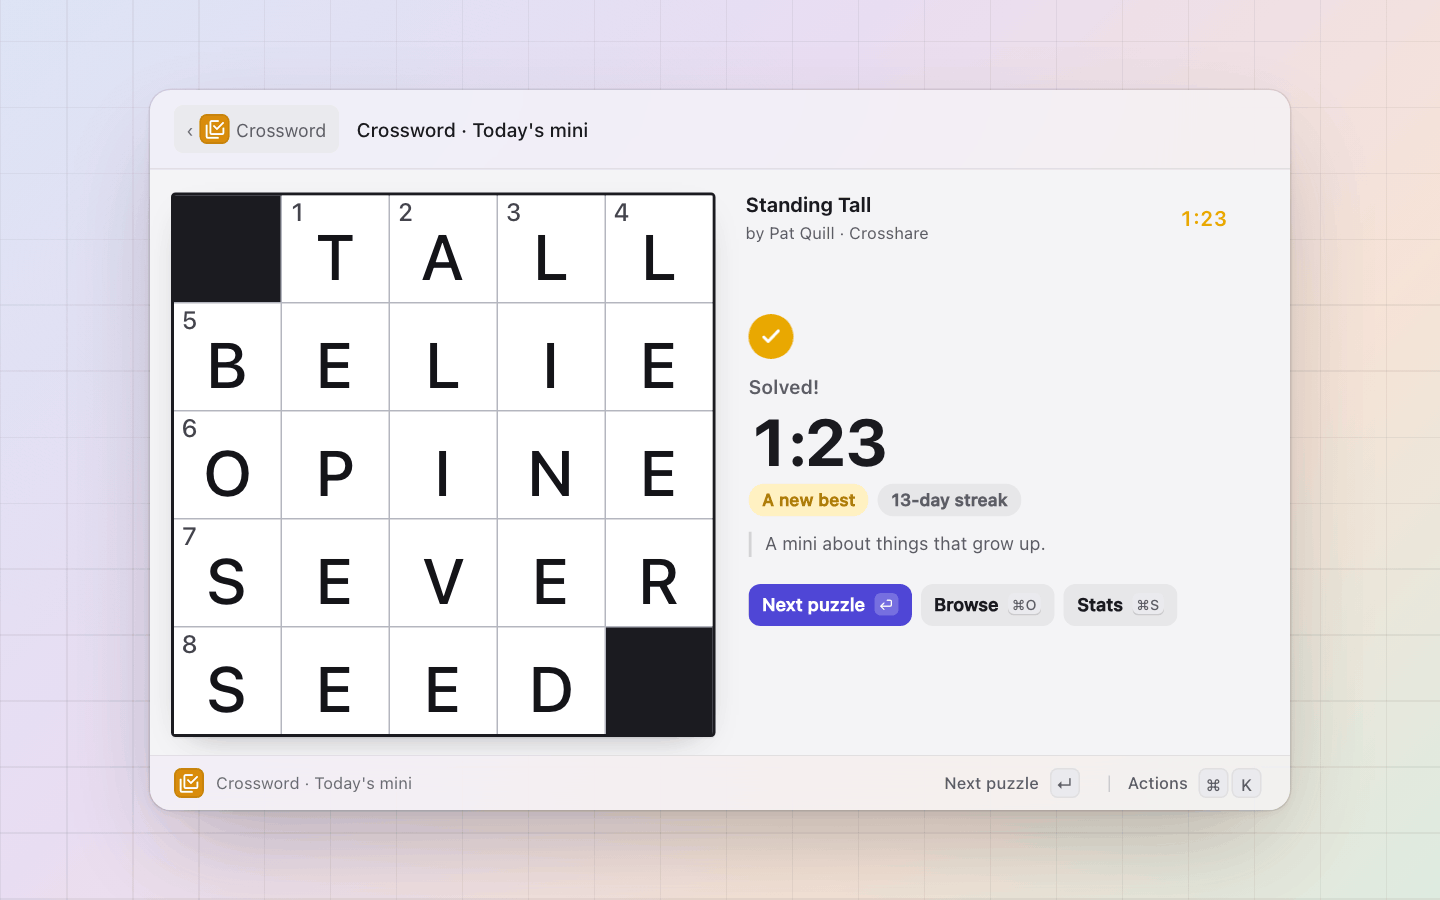
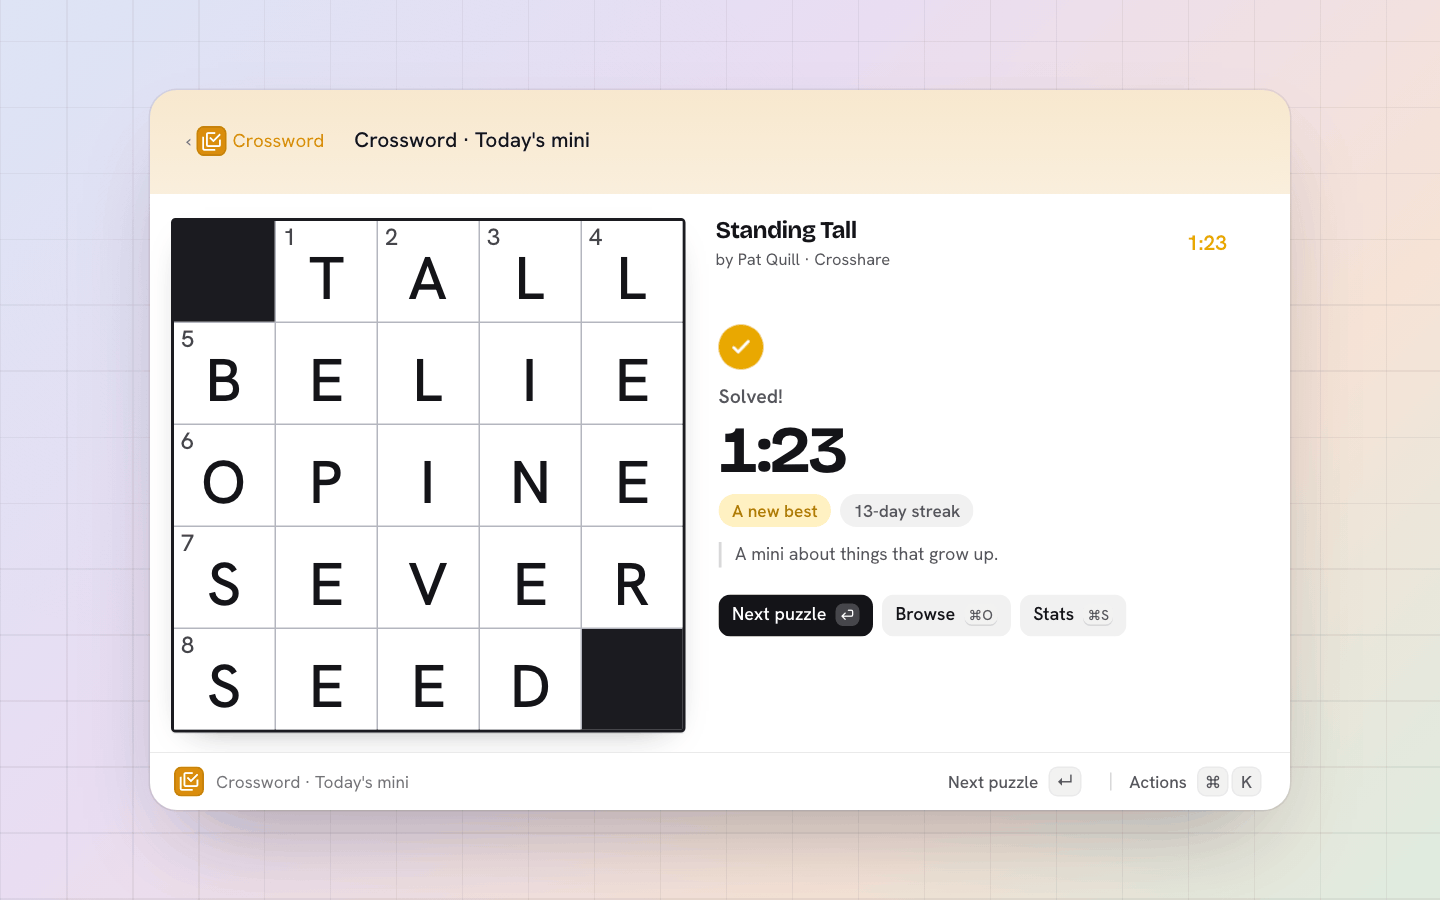
crossword: the solve time, the puzzle's name, the stats and the peeked puzzle in the display type; radii from the panel's tokens; screenshots in Ink

diff --git a/extensions/crossword/surface/style.css b/extensions/crossword/surface/style.css
@@ -29,6 +29,10 @@
   --pie: var(--pal-accent, #4F46D6);
   --ease: cubic-bezier(0.2, 0.8, 0.2, 1);
   --spring: cubic-bezier(0.3, 1.5, 0.5, 1);
+  /* The panel's display type (Ink's headline face; pal's own UI face otherwise): the solve time, the puzzle's name and the stats lead in it. */
+  --display: var(--pal-font-hero, var(--pal-font-query, var(--pal-font-ui, system-ui, sans-serif)));
+  --display-weight: var(--pal-weight-hero, 700);
+  --display-track: var(--pal-tracking-query, -0.02em);
   color-scheme: light;
 }
 :root[data-theme="dark"] {
@@ -193,7 +197,7 @@ body.solved .o { cursor: default; }
 }
 #cover > div { display: flex; flex-direction: column; align-items: center; gap: 6px; color: var(--pal-fg-muted, #5c5c66); }
 #cover svg { width: 34px; height: 34px; fill: currentColor; stroke: none; opacity: 0.55; }
-#cover b { font-size: 17px; font-weight: 600; color: var(--pal-fg, #1A1A1F); }
+#cover b { font-family: var(--display); font-size: var(--pal-text-xl, 18px); font-weight: var(--display-weight); letter-spacing: var(--display-track); color: var(--pal-fg, #1A1A1F); }
 #cover span { font-size: 11.5px; }
 body.paused #cover { opacity: 1; pointer-events: auto; transform: none; cursor: pointer; }
 body.paused #clue > *, body.paused #lists { filter: blur(5px); opacity: 0.4; }
@@ -205,7 +209,7 @@ body.top #who { margin-top: 8px; }
 body.top.nolists #who { margin-top: 0; flex-direction: row; align-items: baseline; justify-content: flex-start; gap: 8px; }
 body.top.nolists #credit { align-self: baseline; }
 body.top.nolists #who { max-width: 55%; }
-#ptitle { font-size: 13.5px; font-weight: 650; letter-spacing: -0.01em; white-space: nowrap; overflow: hidden; text-overflow: ellipsis; }
+#ptitle { font-family: var(--display); font-size: var(--pal-text-lg, 15px); font-weight: var(--display-weight); letter-spacing: var(--display-track); white-space: nowrap; overflow: hidden; text-overflow: ellipsis; }
 #credit {
   align-self: flex-start; max-width: 100%; display: inline-flex; align-items: center; gap: 3px;
   font-size: 11px; color: var(--pal-fg-muted, #5c5c66); white-space: nowrap; overflow: hidden; text-overflow: ellipsis;
@@ -233,7 +237,7 @@ body.noclock #clock { display: none; }
   --clue-size: clamp(15px, 2.25vw, 22px);
   grid-area: clue; margin-top: 10px; height: calc(var(--clue-size) * 2.56 + 18px); min-width: 0;
   display: flex; align-items: center; gap: 8px; padding: 9px 14px 9px 13px;
-  background: var(--clue); color: var(--clue-ink); border-radius: 10px;
+  background: var(--clue); color: var(--clue-ink); border-radius: var(--pal-radius-tile, 10px);
 }
 #clue-n {
   flex: none; min-width: 1.85em; font: 700 calc(var(--clue-size) * 0.95) / 1 var(--pal-font-ui, system-ui, sans-serif);
@@ -256,7 +260,7 @@ body.top #lists { margin-top: 6px; }
 /* No room beside a wide grid: ⌘L lays every clue over it. */
 body.nolists #lists { display: none; }
 body.nolists.clues-open #lists {
-  display: grid; grid-area: board; z-index: 6; margin: 10px 0 0; padding: 12px 14px 4px; border-radius: 12px;
+  display: grid; grid-area: board; z-index: 6; margin: 10px 0 0; padding: 12px 14px 4px; border-radius: var(--pal-radius-popover, 12px);
   background: var(--pal-bg-elevated, #fff); box-shadow: var(--pal-shadow-popover, 0 10px 40px rgba(0,0,0,.2)); grid-template-columns: 1fr 1fr; grid-template-rows: none;
   animation: pop-card 200ms var(--ease);
 }
@@ -295,7 +299,7 @@ body.top.nolists #hint { justify-content: flex-end; grid-column: 1 / -1; justify
 body.top #hint span.long, body.onecol #hint span.long { display: none; }
 #nearly {
   grid-area: hint; align-self: end; z-index: 2; height: 28px; display: flex; align-items: center; gap: 6px; padding: 0 12px; white-space: nowrap; overflow: hidden;
-  border-radius: 8px; background: var(--gold-soft); color: var(--pal-fg, #1A1A1F); font-size: 12px;
+  border-radius: var(--pal-radius-control, 8px); background: var(--gold-soft); color: var(--pal-fg, #1A1A1F); font-size: 12px;
   box-shadow: inset 0 0 0 1px color-mix(in srgb, var(--gold) 40%, transparent);
 }
 #nearly b { font-weight: 650; }
@@ -323,7 +327,7 @@ body.finished #clue, body.finished #lists { opacity: 0; transform: translateY(6p
 #done.in #done-mark svg { animation: tick 420ms var(--ease) 260ms both; }
 @keyframes tick { from { stroke-dashoffset: 24; } }
 #done-what { font-size: 13px; font-weight: 600; color: var(--pal-fg-muted, #5c5c66); }
-#done-time { font: 700 44px / 1.05 var(--pal-font-ui, system-ui, sans-serif); letter-spacing: -0.03em; font-variant-numeric: tabular-nums; }
+#done-time { font: var(--display-weight) 44px / 1.05 var(--display); letter-spacing: -0.03em; font-variant-numeric: tabular-nums; }
 #done-tags { display: flex; flex-wrap: wrap; gap: 6px; min-height: 22px; margin-top: 2px; }
 #done-tags span {
   display: inline-flex; align-items: center; height: 22px; padding: 0 9px; border-radius: 11px;
@@ -353,7 +357,7 @@ body.top.nolists #done-time { font-size: 24px; }
 body.top.nolists #done-tags { flex-wrap: nowrap; overflow: hidden; margin: 0; min-width: 0; flex: 1; }
 body.top.nolists #done-go { margin: 0; flex: none; }
 #done-go button, .go button, #peek button {
-  display: inline-flex; align-items: center; gap: 7px; height: 30px; padding: 0 11px; border-radius: 8px;
+  display: inline-flex; align-items: center; gap: 7px; height: 30px; padding: 0 11px; border-radius: var(--pal-radius-control, 8px);
   background: var(--chip); font-size: 12.5px; font-weight: 550;
   transition: background 120ms, transform 120ms, filter 120ms;
 }
@@ -399,7 +403,7 @@ body.top.nolists #done-go { margin: 0; flex: none; }
 /* ======================================================================== browse */
 #browse, #stats { display: flex; flex-direction: column; padding: 12px 16px 10px; }
 .bar { flex: none; height: 32px; display: flex; align-items: center; gap: 12px; }
-.tabs { display: flex; min-width: 0; padding: 2px; gap: 2px; background: var(--pal-bg-sunken, #EAEAEE); border-radius: 8px; }
+.tabs { display: flex; min-width: 0; padding: 2px; gap: 2px; background: var(--pal-bg-sunken, #EAEAEE); border-radius: var(--pal-radius-control, 8px); }
 .tabs button { height: 26px; padding: 0 11px; white-space: nowrap; border-radius: 6px; font-size: 12px; font-weight: 550; color: var(--pal-fg-muted, #5c5c66); transition: background 140ms, color 140ms, box-shadow 140ms; }
 .tabs button:hover { color: var(--pal-fg, #1A1A1F); }
 .tabs button.on { background: var(--pal-bg-elevated, #fff); color: var(--pal-fg, #1A1A1F); box-shadow: 0 0 0 1px var(--pal-line, #e2e2e8), 0 1px 2px rgba(0,0,0,.06); }
@@ -449,14 +453,14 @@ body.top.nolists #done-go { margin: 0; flex: none; }
 .day.skipped span { color: var(--pal-fg-faint, #8e8e98); text-decoration: line-through; }
 
 #peek {
-  flex: 1; min-width: 0; align-self: stretch; margin-bottom: 4px; padding: 16px 18px; border-radius: 12px;
+  flex: 1; min-width: 0; align-self: stretch; margin-bottom: 4px; padding: 16px 18px; border-radius: var(--pal-radius-popover, 12px);
   background: var(--pal-bg-elevated, #fff); box-shadow: 0 0 0 1px var(--pal-line, #e2e2e8);
   display: flex; flex-direction: column; align-items: flex-start; justify-content: center; gap: 3px;
 }
 #peek.swap > * { animation: swap 200ms var(--ease) both; }
 #peek .date { font-size: 11px; font-weight: 600; color: var(--pal-fg-muted, #5c5c66); display: flex; gap: 6px; align-items: center; letter-spacing: 0.01em; }
 #peek .date em { font-style: normal; font-size: 10px; font-weight: 700; text-transform: uppercase; letter-spacing: 0.06em; color: var(--pal-accent, #4F46D6); }
-#peek .ttl { margin-top: 6px; font-size: 19px; font-weight: 650; line-height: 1.2; letter-spacing: -0.015em; display: -webkit-box; -webkit-line-clamp: 2; -webkit-box-orient: vertical; overflow: hidden; }
+#peek .ttl { margin-top: 6px; font-family: var(--display); font-size: 20px; font-weight: var(--display-weight); line-height: 1.2; letter-spacing: var(--display-track); display: -webkit-box; -webkit-line-clamp: 2; -webkit-box-orient: vertical; overflow: hidden; }
 #peek .by { font-size: 12px; color: var(--pal-fg-muted, #5c5c66); }
 #peek .facts { margin-top: 10px; display: flex; flex-direction: column; gap: 6px; font-size: 12px; }
 #peek .size { align-self: flex-start; padding: 2px 7px; border-radius: 5px; background: var(--chip); font-size: 11px; font-weight: 600; font-variant-numeric: tabular-nums; color: var(--pal-fg-muted, #5c5c66); }
@@ -471,7 +475,7 @@ body.top.nolists #done-go { margin: 0; flex: none; }
 #rows { list-style: none; margin: 0; padding: 0; height: 100%; overflow-y: auto; scrollbar-width: none; }
 #rows li {
   display: grid; grid-template-columns: 16px minmax(0, 1fr) minmax(0, 150px) 38px 52px; gap: 10px; align-items: center;
-  height: 31px; padding: 0 10px; border-radius: 7px; cursor: pointer; font-size: 12.5px; transition: background 120ms;
+  height: 31px; padding: 0 10px; border-radius: var(--pal-radius-row, 7px); cursor: pointer; font-size: 12.5px; transition: background 120ms;
 }
 #rows li:hover { background: var(--pal-bg-sunken, #EAEAEE); }
 #rows li.cur { background: var(--clue); color: var(--clue-ink); }
@@ -498,9 +502,9 @@ body.top.nolists #done-go { margin: 0; flex: none; }
 /* ======================================================================== stats */
 #stats-body { flex: 1; min-height: 0; display: grid; grid-template-rows: auto auto minmax(0, 1fr); gap: 12px; padding-top: 10px; }
 #tiles { display: grid; grid-template-columns: repeat(5, minmax(0, 1fr)); gap: 8px; }
-.tile { padding: 9px 11px 8px; border-radius: 10px; background: var(--pal-bg-elevated, #fff); box-shadow: 0 0 0 1px var(--pal-line, #e2e2e8); display: flex; flex-direction: column; gap: 1px; min-width: 0; }
+.tile { padding: 9px 11px 8px; border-radius: var(--pal-radius-tile, 10px); background: var(--pal-bg-elevated, #fff); box-shadow: 0 0 0 1px var(--pal-line, #e2e2e8); display: flex; flex-direction: column; gap: 1px; min-width: 0; }
 .tile .lbl { font-size: 10px; font-weight: 700; letter-spacing: 0.07em; text-transform: uppercase; color: var(--pal-fg-faint, #8e8e98); white-space: nowrap; }
-.tile b { font-size: 21px; font-weight: 700; letter-spacing: -0.02em; font-variant-numeric: tabular-nums; line-height: 1.2; }
+.tile b { font-family: var(--display); font-size: 22px; font-weight: var(--display-weight); letter-spacing: var(--display-track); font-variant-numeric: tabular-nums; line-height: 1.2; }
 .tile b small { font-size: 11px; font-weight: 600; margin-left: 3px; color: var(--pal-fg-muted, #5c5c66); letter-spacing: 0; }
 .tile .sub { font-size: 10.5px; color: var(--pal-fg-muted, #5c5c66); white-space: nowrap; overflow: hidden; text-overflow: ellipsis; min-height: 14px; }
 .tile.hot b { color: var(--gold); }
@@ -542,12 +546,12 @@ body.top.nolists #done-go { margin: 0; flex: none; }
 #offline .glyph { width: 34px; height: 34px; color: var(--pal-fg-faint, #8e8e98); margin-bottom: 4px; }
 #offline .glyph .cut { stroke: var(--wrong); }
 #offline.none .glyph { display: none; }
-#offline b { font-size: 15px; font-weight: 650; }
+#offline b { font-family: var(--display); font-size: var(--pal-text-xl, 18px); font-weight: var(--display-weight); letter-spacing: var(--display-track); }
 #offline p { margin: 0; color: var(--pal-fg-muted, #5c5c66); }
 #offline-list { width: 100%; margin-top: 12px; display: flex; flex-direction: column; gap: 2px; }
 #offline-list:empty { display: none; }
 #offline-list .lbl { font-size: 11px; color: var(--pal-fg-faint, #8e8e98); text-align: left; margin: 0 0 4px 10px; }
-#offline-list button { display: grid; grid-template-columns: 14px minmax(0, 1fr) auto; gap: 10px; align-items: center; height: 30px; padding: 0 10px; border-radius: 7px; text-align: left; }
+#offline-list button { display: grid; grid-template-columns: 14px minmax(0, 1fr) auto; gap: 10px; align-items: center; height: 30px; padding: 0 10px; border-radius: var(--pal-radius-row, 7px); text-align: left; }
 #offline-list button:hover { background: var(--pal-bg-sunken, #EAEAEE); }
 #offline-list button.hl { background: var(--clue); color: var(--clue-ink); }
 #offline-list .ttl { white-space: nowrap; overflow: hidden; text-overflow: ellipsis; font-weight: 550; }
@@ -591,7 +595,7 @@ body.top.nolists #done-go { margin: 0; flex: none; }
 #photo.in { animation: fade 160ms ease; }
 #photo.in img { animation: pop-card 240ms var(--ease); }
 #note {
-  position: fixed; left: 50%; bottom: 14px; z-index: 11; transform: translateX(-50%); padding: 7px 14px; border-radius: 9px; white-space: nowrap;
+  position: fixed; left: 50%; bottom: 14px; z-index: 11; transform: translateX(-50%); padding: 7px 14px; border-radius: var(--pal-radius-hud, 9px); white-space: nowrap;
   background: var(--pal-bg-elevated, #fff); color: var(--pal-fg, #1A1A1F); box-shadow: var(--pal-shadow-popover, 0 10px 40px rgba(0,0,0,.2)); font-size: 12px; font-weight: 550;
 }
 #note.in { animation: note 2600ms var(--ease) forwards; }
